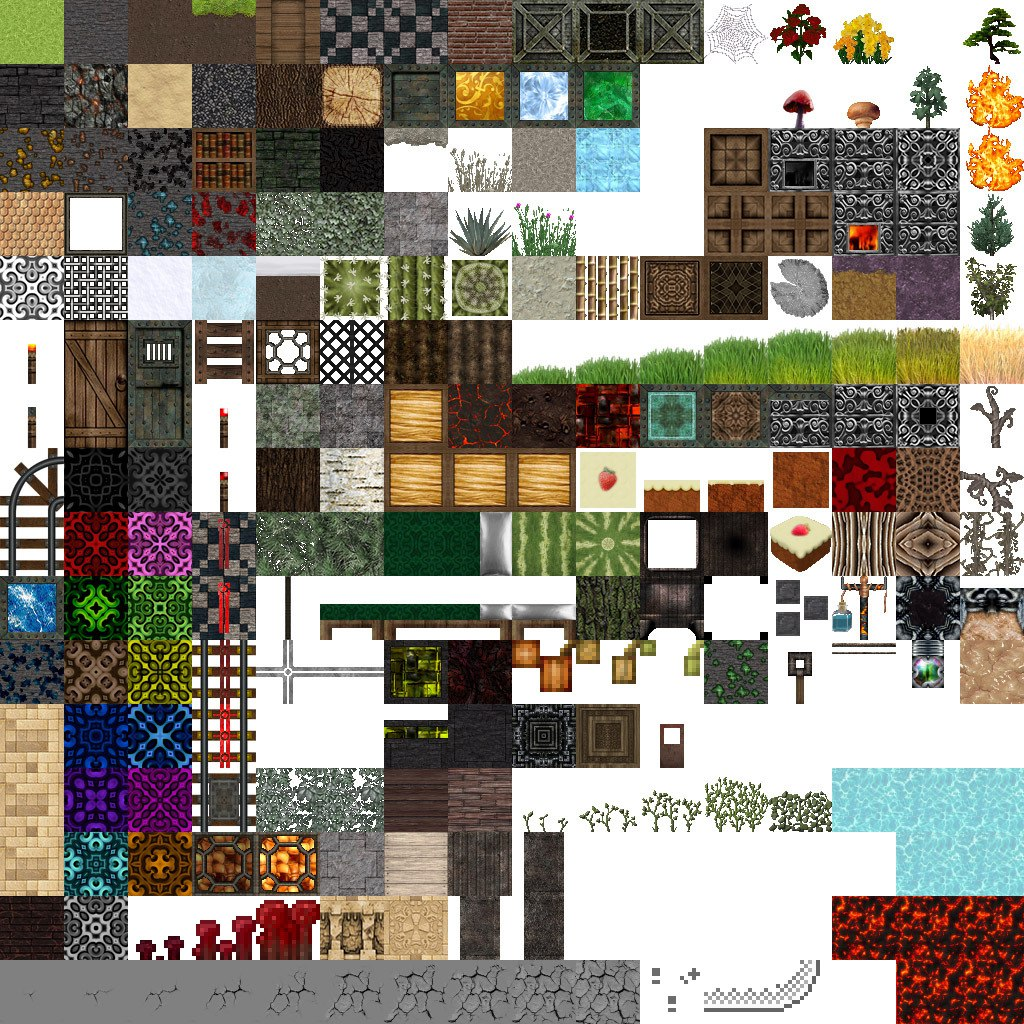
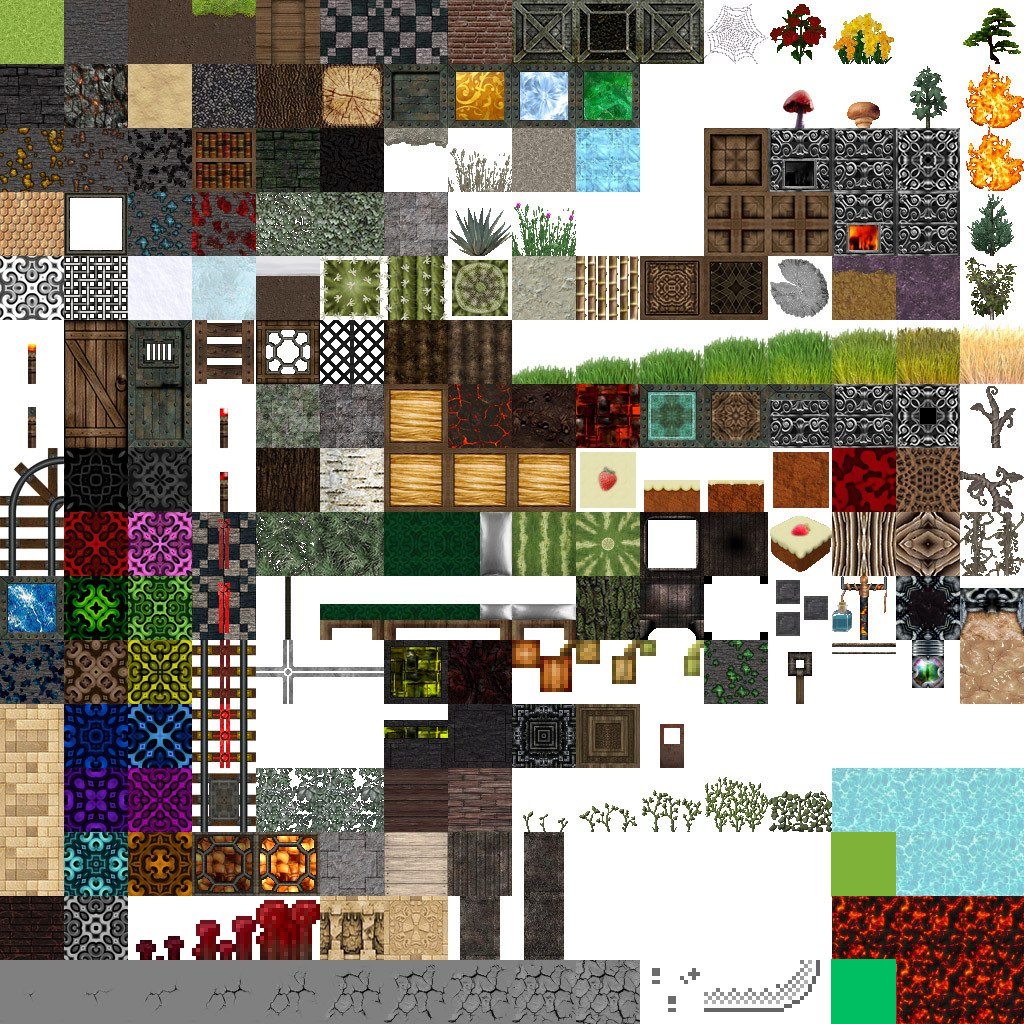
improved terrain generation

Changed region(s): [[0.8125, 0.9375, 0.875, 1.0], [0.8125, 0.8125, 0.875, 0.875]]

diff --git a/src/world/chunk.rs b/src/world/chunk.rs
@@ -21,24 +21,12 @@ pub fn generate_chunk(uvs: &FaceUVs, chunk_position: Point3<i32>, flat_height: i
     let seed: u32 = 142;
     let perlin = Perlin::new(seed);
 
-    let scale = 0.05; // Adjust the scale for frequency of mountains
+    let scale = 0.1; // Adjust the scale for frequency of mountains
     let height_scale = 1.0; // Taller mountains
 
     // Generate an extended height map for mountainous terrain
     let extended_size = CHUNK_SIZE + 2 * OVERLAP;
-    let mut height_map = vec![vec![0; extended_size as usize]; extended_size as usize];
-
-    // Generate Perlin noise for the height map
-    for x in 0..extended_size {
-        for z in 0..extended_size {
-            let world_x = (chunk_position.x * CHUNK_SIZE + x - OVERLAP) as f64;
-            let world_z = (chunk_position.z * CHUNK_SIZE + z - OVERLAP) as f64;
     
-            let noise_value = perlin.get([world_x * scale, world_z * scale]);
-            let height = (noise_value * height_scale).round() as i32 + flat_height;
-            height_map[x as usize][z as usize] = height;
-        }
-    }
     // Generate the flat base layer
     for x in 0..CHUNK_SIZE {
         for z in 0..CHUNK_SIZE {
@@ -58,7 +46,8 @@ pub fn generate_chunk(uvs: &FaceUVs, chunk_position: Point3<i32>, flat_height: i
     }
 
     // Generate the mountainous terrain
-    generate_mountainous_terrain(uvs, chunk_position, &height_map, flat_height, &mut vertices, &mut indices, 2);
+    generate_mountainous_terrain(uvs, chunk_position, flat_height, &mut vertices, &mut indices, 2,  perlin, scale, height_scale, extended_size);
+    generate_mountainous_terrain(uvs, chunk_position, flat_height, &mut vertices, &mut indices, 2,  perlin, 0.05, 16.0, extended_size);
 
 
     ChunkData {
@@ -70,12 +59,28 @@ pub fn generate_chunk(uvs: &FaceUVs, chunk_position: Point3<i32>, flat_height: i
 pub fn generate_mountainous_terrain(
     uvs: &FaceUVs,
     chunk_position: Point3<i32>,
-    height_map: &Vec<Vec<i32>>,
     flat_height: i32,
     vertices: &mut Vec<Vertex>,
     indices: &mut Vec<u32>,
-    mountain_width: i32, // New parameter to control mountain width
+    mountain_width: i32, 
+    perlin: Perlin,
+    scale: f64,
+    height_scale: f64,
+    extended_size: i32
 ) {
+    let mut height_map = vec![vec![0; extended_size as usize]; extended_size as usize];
+    // Generate Perlin noise for the height map
+    for x in 0..extended_size {
+        for z in 0..extended_size {
+            let world_x = (chunk_position.x * CHUNK_SIZE + x - OVERLAP) as f64;
+            let world_z = (chunk_position.z * CHUNK_SIZE + z - OVERLAP) as f64;
+
+            let noise_value = perlin.get([world_x * scale, world_z * scale]);
+            let height = (noise_value * height_scale).round() as i32 + flat_height; // Added flat terrain height
+            height_map[x as usize][z as usize] = height;
+        }
+    }
+
     for x in 0..CHUNK_SIZE {
         for z in 0..CHUNK_SIZE {
             let base_height = height_map[(x + OVERLAP) as usize][(z + OVERLAP) as usize];
@@ -85,7 +90,7 @@ pub fn generate_mountainous_terrain(
 
                 if height > flat_height {
                     for y in (flat_height + 1)..=height {
-                        if is_block_exposed(x, y, z, height_map) {
+                        if is_block_exposed(x, y, z, &height_map) {
                             let offset = Vector3::new(x as f32, y as f32, z as f32);
                             let cube_vertices = create_cube_vertices(uvs, Point3::new(0.0, 0.0, 0.0), offset);
 

diff --git a/src/shaders/shaders.rs b/src/shaders/shaders.rs
@@ -1,53 +1,69 @@
 pub static VERTEX_SHADER_SRC: &str = r#"
- #version 140
+#version 140
 
-    in vec3 position;
-    in vec3 normal;
-    in vec2 tex_coords;
+in vec3 position;
+in vec3 normal;
+in vec2 tex_coords;
 
-    out vec3 v_normal;
-    out vec3 v_position;
-    out vec2 v_tex_coords;
+out vec3 v_normal;
+out vec3 v_position;
+out vec2 v_tex_coords;
+out float v_fog_factor;
 
-    uniform mat4 perspective;
-    uniform mat4 view;
-    uniform mat4 model;
+uniform mat4 perspective;
+uniform mat4 view;
+uniform mat4 model;
+uniform float fog_start;
+uniform float fog_end;
 
-    void main() {
-        v_tex_coords = tex_coords;
-        mat4 modelview = view * model;
-        v_normal = transpose(inverse(mat3(modelview))) * normal;
-        gl_Position = perspective * modelview * vec4(position, 1.0);
-        v_position = gl_Position.xyz / gl_Position.w;
-    }
+void main() {
+    v_tex_coords = tex_coords;
+    mat4 modelview = view * model;
+    v_normal = transpose(inverse(mat3(modelview))) * normal;
+    
+    // Snap vertices to grid
+    vec3 snapped_position = round(position);
+    vec4 world_pos = model * vec4(snapped_position, 1.0);
+    gl_Position = perspective * view * world_pos;
+    v_position = (view * world_pos).xyz;
+    
+    // Calculate fog factor
+    float dist = length(v_position);
+    v_fog_factor = clamp((fog_end - dist) / (fog_end - fog_start), 0.0, 1.0);
+}
 "#;
 
 pub static FRAGMENT_SHADER_SRC: &str = r#"
-  #version 140
+ #version 140
 
-    in vec3 v_normal;
-    in vec3 v_position;
-    in vec2 v_tex_coords;
+in vec3 v_normal;
+in vec3 v_position;
+in vec2 v_tex_coords;
+in float v_fog_factor;
 
-    out vec4 color;
+out vec4 color;
 
-    uniform vec3 u_light;
-    uniform sampler2D tex;
+uniform vec3 u_light;
+uniform sampler2D tex;
+uniform vec3 fog_color;
 
-    const vec3 specular_color = vec3(1.0, 1.0, 1.0);
+const vec3 ambient_color = vec3(0.7, 0.7, 0.7);
+const float diffuse_strength = 0.3;
+const float ambient_strength = 0.7;
 
-    void main() {
-        vec3 diffuse_color = texture(tex, v_tex_coords).rgb;
-        
-        vec3 normalized_normal = normalize(v_normal);
-        vec3 ambient_color = diffuse_color * 0.1;
-        float diffuse = max(dot(normalized_normal, normalize(u_light)), 0.0);
-        vec3 camera_dir = normalize(-v_position);
-        vec3 half_direction = normalize(normalize(u_light) + camera_dir);
-        float specular = pow(max(dot(half_direction, normalized_normal), 0.0), 16.0);
-
-        color = vec4(ambient_color + diffuse * diffuse_color + specular * specular_color, 1.0);
-    }
+void main() {
+    vec3 diffuse_color = texture(tex, v_tex_coords).rgb;
+    
+    vec3 normalized_normal = normalize(v_normal);
+    float diffuse = max(dot(normalized_normal, normalize(u_light)), 0.0);
+    
+    // Combine ambient and diffuse lighting
+    vec3 lighting = ambient_strength * ambient_color + diffuse_strength * diffuse * vec3(1.0);
+    vec3 final_color = diffuse_color * lighting;
+    
+    // Apply fog
+    color = vec4(mix(fog_color, final_color, v_fog_factor), 1.0);
+}
 "#;
 
 // #version 140

diff --git a/src/main.rs b/src/main.rs
@@ -1,19 +1,19 @@
 use glium::winit::event::{ElementState, MouseButton};
 use glium::Surface;
 use glium::{implement_vertex, uniform};
-use minecraft_rust::camera::camera::Camera;
-use minecraft_rust::graphics::cube::{create_cube_vertices, FaceUVs, Vertex};
-use minecraft_rust::graphics::texture::{calculate_tile_uvs, create_block_texture, init_uvs, UVS};
-use minecraft_rust::shaders::shaders::{FRAGMENT_SHADER_SRC, VERTEX_SHADER_SRC};
+use pixelquest::camera::camera::Camera;
+use pixelquest::graphics::cube::{create_cube_vertices, FaceUVs, Vertex};
+use pixelquest::graphics::texture::{calculate_tile_uvs, create_block_texture, init_uvs, UVS};
+use pixelquest::shaders::shaders::{FRAGMENT_SHADER_SRC, VERTEX_SHADER_SRC};
 use device_query::{DeviceQuery, DeviceState, Keycode};
 use cgmath::{perspective, Deg, InnerSpace, Matrix4, Point3, SquareMatrix, Vector3};
-use minecraft_rust::world::chunk::{generate_chunk, CUBE_INDICES};
+use pixelquest::world::chunk::{generate_chunk, CUBE_INDICES};
 
-use minecraft_rust::world::world::World;
+use pixelquest::world::world::World;
 
 fn main() {
     let event_loop = glium::winit::event_loop::EventLoopBuilder::new().build().unwrap();
-    let (window, display) = glium::backend::glutin::SimpleWindowBuilder::new().with_title("Minecraft").build(&event_loop);
+    let (window, display) = glium::backend::glutin::SimpleWindowBuilder::new().with_title("Pixel Quest").build(&event_loop);
     
     let mut current_mouse_position = (0.0, 0.0, 0.0);
 
@@ -30,9 +30,10 @@ fn main() {
 
     
     init_uvs();
-    
 
-    let uvs = UVS.get().unwrap();
+    // let uvs = UVS.get().unwrap();
+    let uvs =  UVS.get().and_then(|map| map.get("dark_grass")).cloned().expect("No uvs found");
+
     let offset = Vector3::new(0.0, -3.0, 0.0);
     
     // create cube
@@ -85,8 +86,10 @@ fn main() {
                 glium::winit::event::WindowEvent::RedrawRequested => {
                     // Start drawing the frame
                     let mut target = display.draw();
-                    target.clear_color_and_depth((0.53, 0.81, 0.92, 1.0), 1.0);
-                
+                    target.clear_color_and_depth((0.2510, 0.4745, 0.9608, 1.0), 1.0);
+
+                    // target.clear_color_and_depth((0.0, 0.3176, 1.0, 1.0), 1.0);
+
                     // Get window dimensions and aspect ratio
                     let (width, height) = target.get_dimensions();
                     let aspect_ratio = width as f32 / height as f32;

diff --git a/src/graphics/texture.rs b/src/graphics/texture.rs
@@ -1,4 +1,4 @@
-use std::sync::OnceLock;
+use std::{cell::OnceCell, collections::HashMap, sync::OnceLock};
 
 use glium::{glutin::surface::WindowSurface, Display};
 
@@ -23,17 +23,42 @@ pub fn calculate_tile_uvs(tile_x: u32, tile_y: u32) -> [(f32, f32); 4] {
 }
 
 
-pub static UVS: OnceLock<FaceUVs> = OnceLock::new();
+pub static UVS: OnceLock<HashMap<String, FaceUVs>> = OnceLock::new();
 
 pub fn init_uvs() {
-    UVS.get_or_init(|| FaceUVs {
-        front: calculate_tile_uvs(3, 15),
-        back: calculate_tile_uvs(3, 15),
-        top: calculate_tile_uvs(0, 16),
-        bottom: calculate_tile_uvs(2, 16),
-        right: calculate_tile_uvs(3, 15),
-        left: calculate_tile_uvs(3, 15),
+    UVS.get_or_init(|| {
+        let mut map = HashMap::new();
+        map.insert("grass".to_string(), FaceUVs {
+            front: calculate_tile_uvs(3, 15),
+            back: calculate_tile_uvs(3, 15),
+            top: calculate_tile_uvs(0, 16),
+            bottom: calculate_tile_uvs(2, 16),
+            right: calculate_tile_uvs(3, 15),
+            left: calculate_tile_uvs(3, 15),
+        });
+        map.insert("light_grass".to_string(), FaceUVs {
+            front: calculate_tile_uvs(13, 2),
+            back: calculate_tile_uvs(13, 2),
+            top: calculate_tile_uvs(13, 2),
+            bottom: calculate_tile_uvs(13, 2),
+            right: calculate_tile_uvs(13, 2),
+            left: calculate_tile_uvs(13, 2),
+        });
+        map.insert("dark_grass".to_string(), FaceUVs {
+            front: calculate_tile_uvs(13, 0),
+            back: calculate_tile_uvs(13, 0),
+            top: calculate_tile_uvs(13, 0),
+            bottom: calculate_tile_uvs(13, 0),
+            right: calculate_tile_uvs(13, 0),
+            left: calculate_tile_uvs(13, 0),
+        });
+        map
     });
+}
+
+
+pub fn get_uvs(name: &str) -> Option<FaceUVs> {
+    UVS.get().and_then(|map| map.get(name)).cloned()
 }
 
 pub fn create_block_texture(display: &Display<WindowSurface>, ) -> glium::Texture2d {

diff --git a/src/world/world.rs b/src/world/world.rs
@@ -148,6 +148,9 @@ impl World {
                         perspective: Into::<[[f32; 4]; 4]>::into(perspective),
                         u_light: light,
                         tex: sampler,
+                        fog_color: [0.7, 0.85, 1.0f32],  // Slightly bluer, closer to sky color
+                        fog_start: 50.0f32,  // Increased from 5.0
+                        fog_end: 150.0f32,   // Increased from 60.0
                     },
                     &params,
                 )

diff --git a/src/graphics/cube.rs b/src/graphics/cube.rs
@@ -9,6 +9,7 @@ pub struct Vertex {
 }
 implement_vertex!(Vertex, position, normal, tex_coords);
 
+#[derive(Clone)]
 pub struct FaceUVs {
     pub front: [(f32, f32); 4],
     pub back: [(f32, f32); 4],
@@ -79,8 +80,4 @@ pub fn create_cube_vertices(uvs: &FaceUVs, camera_position: Point3<f32>, offset:
     }
 
     vertices
-}
-
-pub fn create_single_tx_cube_vertices(camera_position: Point3<f32>, offset: Vector3<f32>) {
-  
 }
